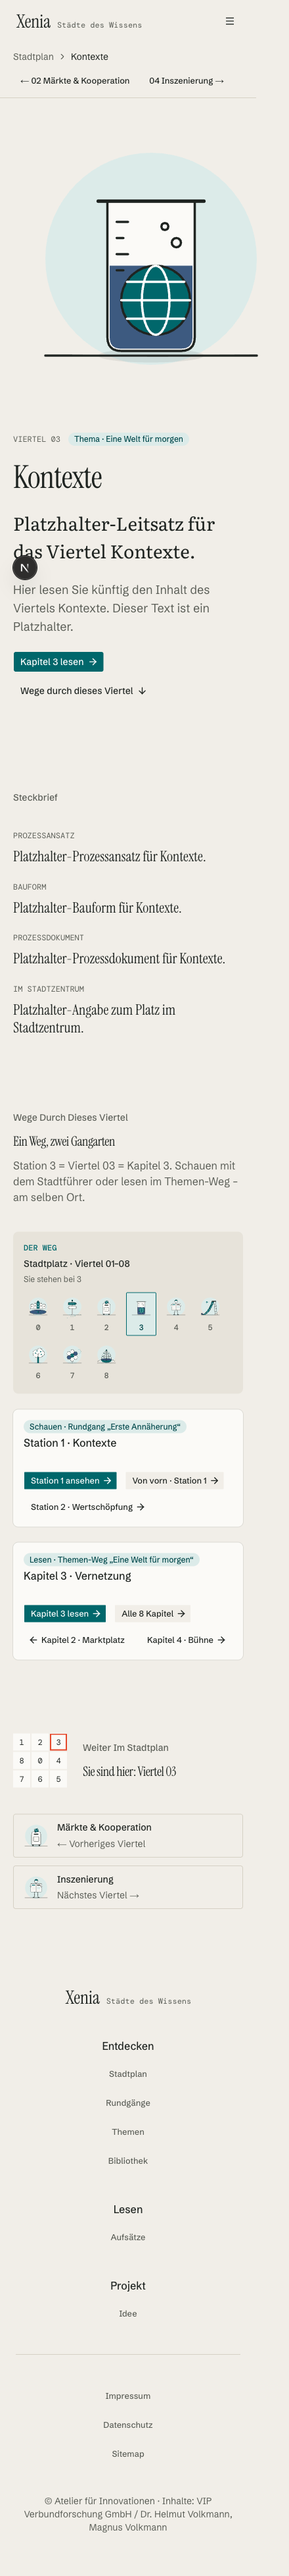
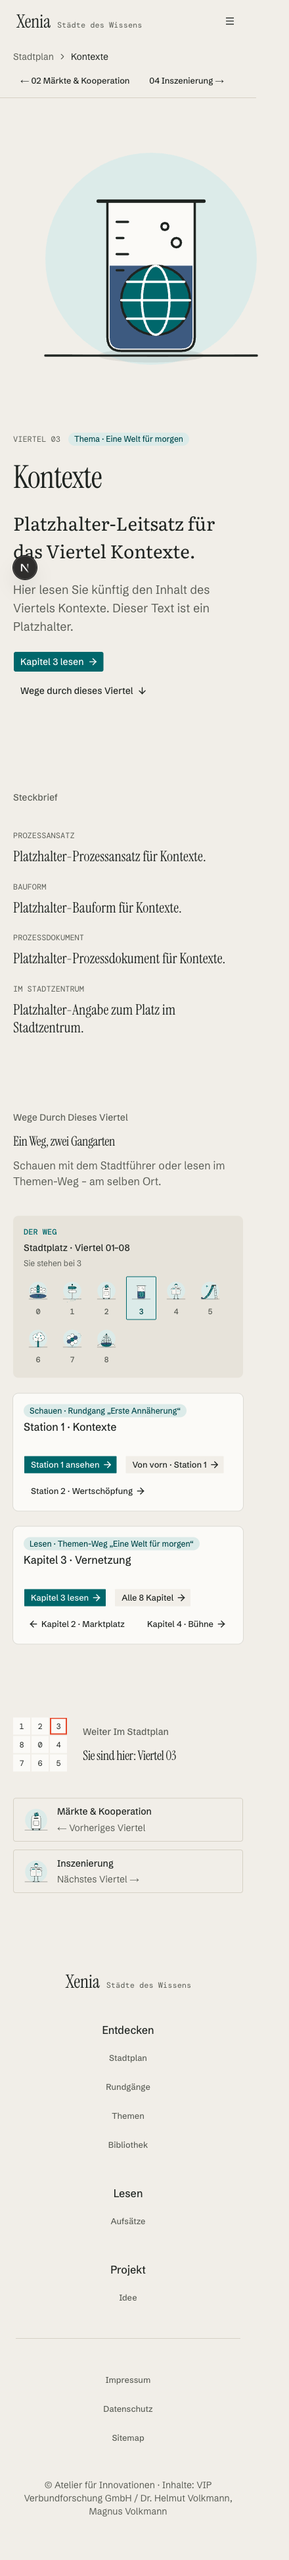
Fix Wege section review findings, refresh Viertel screenshots
- Wege description no longer claims a Station number that differs from the Schauen card
- Gangart cards stack below lg, Wege link only when the section renders
- Record the Stopp Tiefpetrol deviation, tidy getSchauenRundgang

diff --git a/src/components/viertel/viertel-detail.tsx b/src/components/viertel/viertel-detail.tsx
@@ -47,6 +47,7 @@ async function ViertelDetail({ viertel, locale, ...props }: ViertelDetailProps) 
 	const next = graph.getNext(viertel.id)
 	const schauenGangart = buildSchauenGangart(graph, viertel)
 	const lesenGangart = buildLesenGangart(graph, viertel)
+	const hasWege = Boolean(schauenGangart || lesenGangart)
 
 	return (
 		<div data-slot="viertel-detail" {...props}>
@@ -78,10 +79,12 @@ async function ViertelDetail({ viertel, locale, ...props }: ViertelDetailProps) 
 								<Icon iconName="arrowRight" data-icon="inline-end" />
 							</Link>
 						)}
-						<Link href={`#${WEGE_ANCHOR}`} className={buttonVariants({ variant: 'ghost' })}>
-							{t('viertel.heroWegeAction')}
-							<Icon iconName="arrowDown" data-icon="inline-end" />
-						</Link>
+						{hasWege && (
+							<Link href={`#${WEGE_ANCHOR}`} className={buttonVariants({ variant: 'ghost' })}>
+								{t('viertel.heroWegeAction')}
+								<Icon iconName="arrowDown" data-icon="inline-end" />
+							</Link>
+						)}
 					</>
 				}
 			>
@@ -96,15 +99,12 @@ async function ViertelDetail({ viertel, locale, ...props }: ViertelDetailProps) 
 
 			<AufsaetzeListe aufsaetze={graph.getAufsaetzeByViertel(viertel.id)} />
 
-			{(schauenGangart ?? lesenGangart) !== undefined && (
+			{hasWege && (
 				<PageSection id={WEGE_ANCHOR} data-slot="wege-section">
 					<SectionTitle
 						tagline={t('viertel.wege.tagline')}
 						title={t('viertel.wege.title')}
-						description={t('viertel.wege.description', {
-							number: viertel.number,
-							viertelNumber: formatTwoDigits(viertel.number),
-						})}
+						description={t('viertel.wege.description')}
 						className="mb-10"
 					/>
 					<WegLeiste
@@ -114,7 +114,7 @@ async function ViertelDetail({ viertel, locale, ...props }: ViertelDetailProps) 
 						aktuellNummer={viertel.number}
 						className="mb-6"
 					/>
-					<div className="flex flex-col gap-6 md:flex-row">
+					<div className="flex flex-col gap-6 lg:flex-row">
 						{schauenGangart && <GangartKarte {...schauenGangart} />}
 						{lesenGangart && <GangartKarte {...lesenGangart} />}
 					</div>

diff --git a/src/lib/content/graph.ts b/src/lib/content/graph.ts
@@ -173,9 +173,9 @@ export interface ContentGraph {
 	getSchauenRundgang(ortId: string): Rundgang | undefined
 	// The Ort's own Station on its Schauen Rundgang (issue #97) — undefined
 	// alongside getSchauenRundgang whenever no Rundgang visits it. Shares
-	// getSchauenRundgang's lookup instead of each caller re-deriving it
-	// (stadt-tabelle-rows.ts and stadtplan-hub.tsx both did, issue #95's own
-	// judgement call).
+	// getSchauenRundgang's lookup; the Viertel page and the Stadtplan-Hub
+	// use it. stadt-tabelle-rows.ts derives its own, as it deliberately uses
+	// the Zentrum's Rundgang for every row.
 	getSchauenStation(ortId: string): Station | undefined
 	// The three Themen (issue #31, ADR-0003): the Leitthema and each
 	// Themen-Ort, both documents at src/content/themen/<slug>/. The Leitthema
@@ -457,7 +457,7 @@ export function buildContentGraph(
 		getStationenByRundgang: (rundgangId) => stationenByRundgang.get(rundgangId) ?? [],
 		getStation: (id, locale) => find('station', id, locale),
 		getStationenByOrt: (ortId) => stationen.filter((station) => station.ortId === ortId),
-		getSchauenRundgang: (ortId) => schauenRundgangFor(ortId),
+		getSchauenRundgang: schauenRundgangFor,
 		getSchauenStation: (ortId) => {
 			const rundgang = schauenRundgangFor(ortId)
 			return (

diff --git a/src/components/navigation/stopp.tsx b/src/components/navigation/stopp.tsx
@@ -32,8 +32,8 @@ interface StoppProps
 // design system's Mist Rule names "the current station" as a valid
 // Petrolschleier use, unlike Plan-Feld's own Signal Rule deviation
 // (plan-feld.tsx) — but its text follows the Ink Rule ("on Petrolschleier,
-// text is Tiefpetrol") rather than Figma's own Petrol-coloured Nummer, an
-// unrecorded deviation the design system doc doesn't list. The set's third
+// text is Tiefpetrol") rather than Figma's own Petrol-coloured Nummer, a
+// deviation recorded in the design system's Open deviations. The set's third
 // variant, Status=gesehen, has no code counterpart: this page tracks no
 // reading state, so every other place is "offen".
 function Stopp({

diff --git a/src/lib/dictionary/de.ts b/src/lib/dictionary/de.ts
@@ -88,7 +88,7 @@ export const de = {
 	'viertel.wege.tagline': 'Wege durch dieses Viertel',
 	'viertel.wege.title': 'Ein Weg, zwei Gangarten',
 	'viertel.wege.description':
-		'Station {number} = Viertel {viertelNumber} = Kapitel {number}. Schauen mit dem Stadtführer oder lesen im Themen-Weg – am selben Ort.',
+		'Schauen mit dem Stadtführer oder lesen im Themen-Weg – am selben Ort.',
 	'viertel.wege.schauenBadge': 'Schauen · Rundgang „{title}“',
 	'viertel.wege.schauenAnsehen': 'Station {number} ansehen',
 	'viertel.wege.schauenVonVorn': 'Von vorn · Station {number}',

diff --git a/docs/reference/design/kartei-design-system.md b/docs/reference/design/kartei-design-system.md
@@ -249,3 +249,4 @@ Places where the screens break their own system. They are recorded here, not ado
 - The Thema-Karte uses a raw 12px corner radius instead of the kit's 8px card radius.
 - Input borders are below 3:1 contrast (see Inputs).
 - The desktop header's current area (issue #81) has no dedicated active state in Figma: the screens draw it as the NavigationMenu item's `State=Hover` variant, the same Pappe pill a pointer hover shows. The code gives the current entry a real active state (`aria-current="page"`, `data-active`), which happens to render identically to Hover since both map to `bg-muted`.
+- The Weg-Leiste's current Stopp (issue #97) draws its Nummer in Petrol on the Petrolschleier fill. The code sets it in Tiefpetrol, following the Ink Rule (on Petrolschleier, text is Tiefpetrol).
